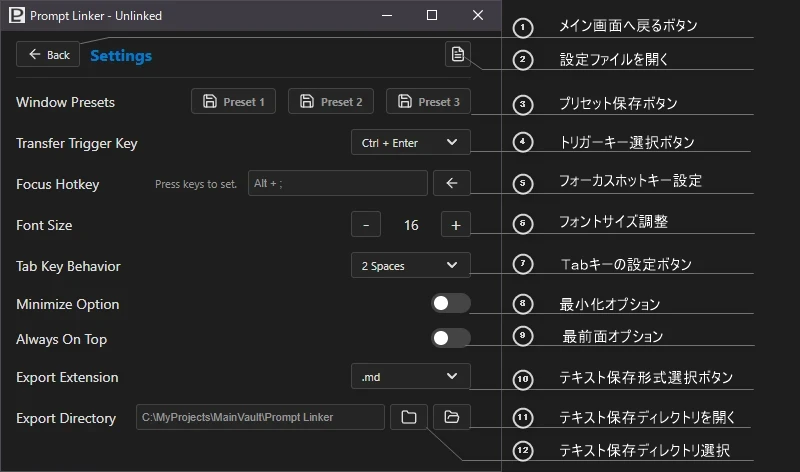
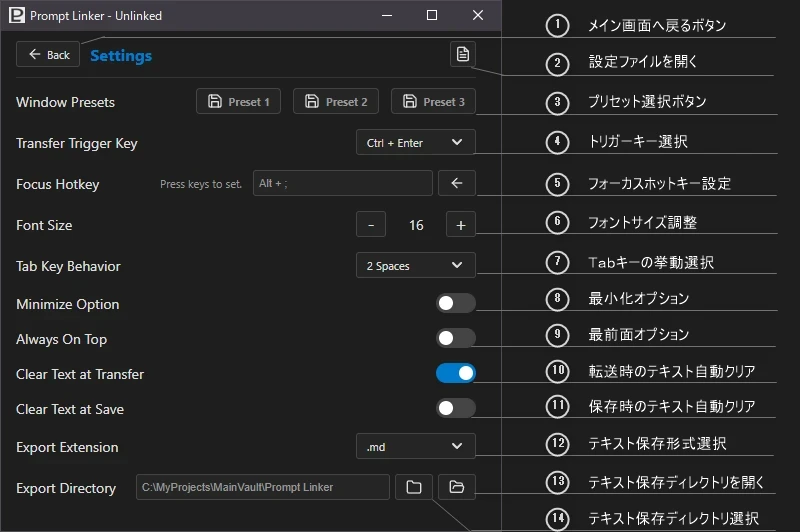
マニュアルの更新

diff --git a/docs/index.html b/docs/index.html
@@ -132,7 +132,7 @@
             </li>
             <li>
               <a href="#trigger-key-selection" class="nav-h3"
-                >④ 🏹 トリガーキー選択ボタン</a
+                >④ 🏹 トリガーキー選択</a
               >
             </li>
             <li>
@@ -147,7 +147,7 @@
             </li>
             <li>
               <a href="#tab-key-settings" class="nav-h3"
-                >⑦ ➡ Tabキーの設定ボタン</a
+                >⑦ ➡ Tabキーの挙動選択</a
               >
             </li>
             <li>
@@ -172,7 +172,7 @@
             </li>
             <li>
               <a href="#save-format-selection" class="nav-h3"
-                >⑫ 🔤 テキスト保存形式選択ボタン</a
+                >⑫ 🔤 テキスト保存形式選択</a
               >
             </li>
             <li>
@@ -196,7 +196,7 @@
         </li>
         <li class="has-children">
           <span class="toggle-btn">▶</span>
-          <a href="#external-apps" class="nav-h2">💡 外部アプリとの連携</a>
+          <a href="#external-apps" class="nav-h2">📡 外部アプリとの連携</a>
           <ul>
             <li>
               <a href="#win-clipboard-history" class="nav-h3"
@@ -226,7 +226,7 @@
           >
         </li>
         <li>
-          <a href="#source-code" class="nav-h2">🔗 ソースコード</a>
+          <a href="#source-code" class="nav-h2">🔩 ソースコード</a>
         </li>
       </ul>
     </nav>
@@ -249,6 +249,14 @@
         「<strong>Prompt Linker</strong
         >」は入力したテキストをターゲットとなるアプリへ貼り付けるシンプルな<br />
         <strong>Windows専用デスクトップアプリ</strong>です。
+      </p>
+      <p>
+        各セクションへのジャンプは左のサイドパネルの🚀
+        セクションナビをご活用ください。 先にダウンロードを済ませたい方は<a
+          href="#download-and-installation"
+          >📥 ダウンロード・インストール方法</a
+        >
+        からアクセスしてください。
       </p>
       <img
         src="./assets/main-screenshot.webp"
@@ -322,7 +330,7 @@
         その他テキスト貼り付けを受け付けるアプリケーションにも使用できます。
       </p>
       <blockquote>
-        ❗ 注意<br />
+        ⚠ 注意<br />
         但し、ターゲットアプリ内に複数のテキスト入力欄がある場合は(例:ブラウザのタブなど)<br />
         本アプリは個別に認識することができません。<br />
         ターゲット指定する際には入力したい<strong
@@ -503,6 +511,11 @@
           3つを超えてリンクすると新しいターゲットアプリは
           現在使用中のスロット以外のスロットに上書きされます。
         </li>
+        <li>
+          ターゲットアクションを変更した際には現在選択中のスロットに現在のターゲットアクションが
+          上書きで紐づけられます。<br />
+          紐づけられたターゲットアクションはスロット選択時に復元されます。
+        </li>
       </ul>
 
       <strong>スロットのロック:</strong>
@@ -533,9 +546,10 @@
         </li>
       </ul>
       <blockquote>
-        ❗ 注意<br />
+        ⚠ 注意<br />
         スロットにリンクしているアプリを終了した場合にはスロットは空になります。<br />
         (ロック中のスロットであっても保護されません。)<br />
+        ターゲットアクションはロックされません。(ロックの対象外です。) <br />
         スロットの記憶は本アプリを終了すると失われます。
       </blockquote>
 
@@ -558,6 +572,13 @@
           </ul>
         </li>
       </ul>
+      <blockquote>
+        💡 ターゲットアクションの復元<br />
+        プリセットはウィンドウ状態に加えターゲットアクションも保存・復元します。<br />
+        よく使う「いつもの」状態を素早く再現するためです。<br />
+        プリセットによって再現されたターゲットアクションも通常のターゲットアクションの選択と同じく
+        現在選択中のスロットに上書きで紐づけられます。
+      </blockquote>
 
       <h3 id="target-action-buttons">③ 🎯 ターゲットアクション選択ボタン</h3>
       <img
@@ -620,6 +641,7 @@
             <li>コピー: <kbd>Ctrl+C</kbd></li>
             <li>貼り付け: <kbd>Ctrl+V</kbd></li>
             <li>すべて選択: <kbd>Ctrl+A</kbd></li>
+            <li>範囲選択: <kbd>Shift</kbd>+クリック</li>
             <li>元に戻す: <kbd>Ctrl+Z</kbd></li>
             <li>やり直す: <kbd>Ctrl+Y</kbd></li>
             <li>文字列検索: <kbd>Ctrl+F</kbd></li>
@@ -637,7 +659,7 @@
             <li>
               <strong>Transfer</strong><br />
               入力したテキストをターゲットアプリへ貼り付けます<br />
-              この選択肢は本アプリ独自機能です。以降はテキストエリアでよくある右クリックメニューです。
+              この選択肢は本アプリ独自機能です。以降はテキスト入力欄でよくある右クリックメニューです。
             </li>
             <li>切り取り</li>
             <li>コピー</li>
@@ -707,7 +729,7 @@
         </li>
       </ul>
 
-      <h3 id="trigger-key-selection">④ 🏹 トリガーキー選択ボタン</h3>
+      <h3 id="trigger-key-selection">④ 🏹 トリガーキー選択</h3>
       <ul>
         <li>
           本アプリからターゲットアプリへテキストを貼り付けるためのトリガーとなるキーを指定します。
@@ -782,7 +804,7 @@
         <li>メイン画面のテキスト入力欄のフォントサイズを指定します。</li>
       </ul>
 
-      <h3 id="tab-key-settings">⑦ ➡ Tabキーの設定ボタン</h3>
+      <h3 id="tab-key-settings">⑦ ➡ Tabキーの挙動選択</h3>
       <ul>
         <li>
           メイン画面のテキスト入力欄での<kbd>Tab</kbd>キーの挙動を設定します。
@@ -806,7 +828,7 @@
         <li>デフォルトではオフに設定されています。</li>
       </ul>
       <blockquote>
-        ❗ 注意<br />
+        ⚠ 注意<br />
         このオプションをオンにした場合には本アプリに自動で
         フォーカスが戻る機能は無効化されます。<br />
         フォーカスホットキー等を利用してください。
@@ -817,7 +839,7 @@
         <li>常に最前面に表示します。</li>
       </ul>
       <blockquote>
-        ❗ 注意<br />
+        ⚠ 注意<br />
         外部アプリとドラッグアンドドロップできたりとメリットもありますが、
         本アプリの下にある表示を見逃したり一部の外部アプリとの連携がうまくいかない等の
         デメリットもあります。
@@ -826,11 +848,13 @@
       <h3 id="clear-text-at-transfer-option">⑩ ⌫ 転送時のテキスト自動クリア</h3>
       <ul>
         <li>
-          ターゲットアプリへテキストを送信（転送）した後に、本アプリのテキスト入力欄を
+          ターゲットアプリへテキストを転送した後に、本アプリのテキスト入力欄を
           自動でクリアするかどうかを選択します。
         </li>
         <li>デフォルトではオン（クリアする）に設定されています。</li>
-        <li>連続して同じプロンプトを別のアプリに送りたい場合などはオフにします。</li>
+        <li>
+          連続して同じプロンプトを別のアプリに送りたい場合などはオフにします。
+        </li>
       </ul>
 
       <h3 id="clear-text-at-save-option">⑪ ⌫ 保存時のテキスト自動クリア</h3>
@@ -842,8 +866,13 @@
         <li>デフォルトではオフ（クリアしない）に設定されています。</li>
         <li>保存した後にそのまま転送作業を続けたい場合に便利です。</li>
       </ul>
+      <blockquote>
+        💡 テキスト入力欄のクリア<br />
+        自動クリアをしない場合は手動クリアのホットキー<kbd>Alt+C</kbd>が便利です。<br />
+        勿論、全選択→<kbd>DEL</kbd>/<kbd>BACKSPACE</kbd>でもクリアできます。
+      </blockquote>
 
-      <h3 id="save-format-selection">⑫ 🔤 テキスト保存形式選択ボタン</h3>
+      <h3 id="save-format-selection">⑫ 🔤 テキスト保存形式選択</h3>
       <ul>
         <li>
           テキスト保存ボタンやホットキーで保存した時の拡張子を選択します。
@@ -914,7 +943,7 @@ Alt + - / = : フォントサイズ変更
 Alt + B : テキスト保存ディレクトリを参照
 Alt + O : テキスト保存ディレクトリを開く</code></pre>
 
-      <h2 id="external-apps">💡 外部アプリとの連携</h2>
+      <h2 id="external-apps">📡 外部アプリとの連携</h2>
       <p>
         本アプリは入力したテキストをターゲットアプリに貼り付けるという性質上、
         必然的にクリップボードを経由します。<br />
@@ -1022,7 +1051,7 @@ Alt + O : テキスト保存ディレクトリを開く</code></pre>
         本アプリのライセンスは <strong>MIT License</strong> に準拠します。<br />
         商用・非商用を問わず、誰でも無償で自由に使用、複製、変更、再配布することができます。
       </p>
-      <h3 id="source-code">ソースコード</h3>
+      <h2 id="source-code">🔩 ソースコード</h2>
       <p>
         最新のソースコードおよび開発情報は GitHub にて公開しています。<br />
         <a
